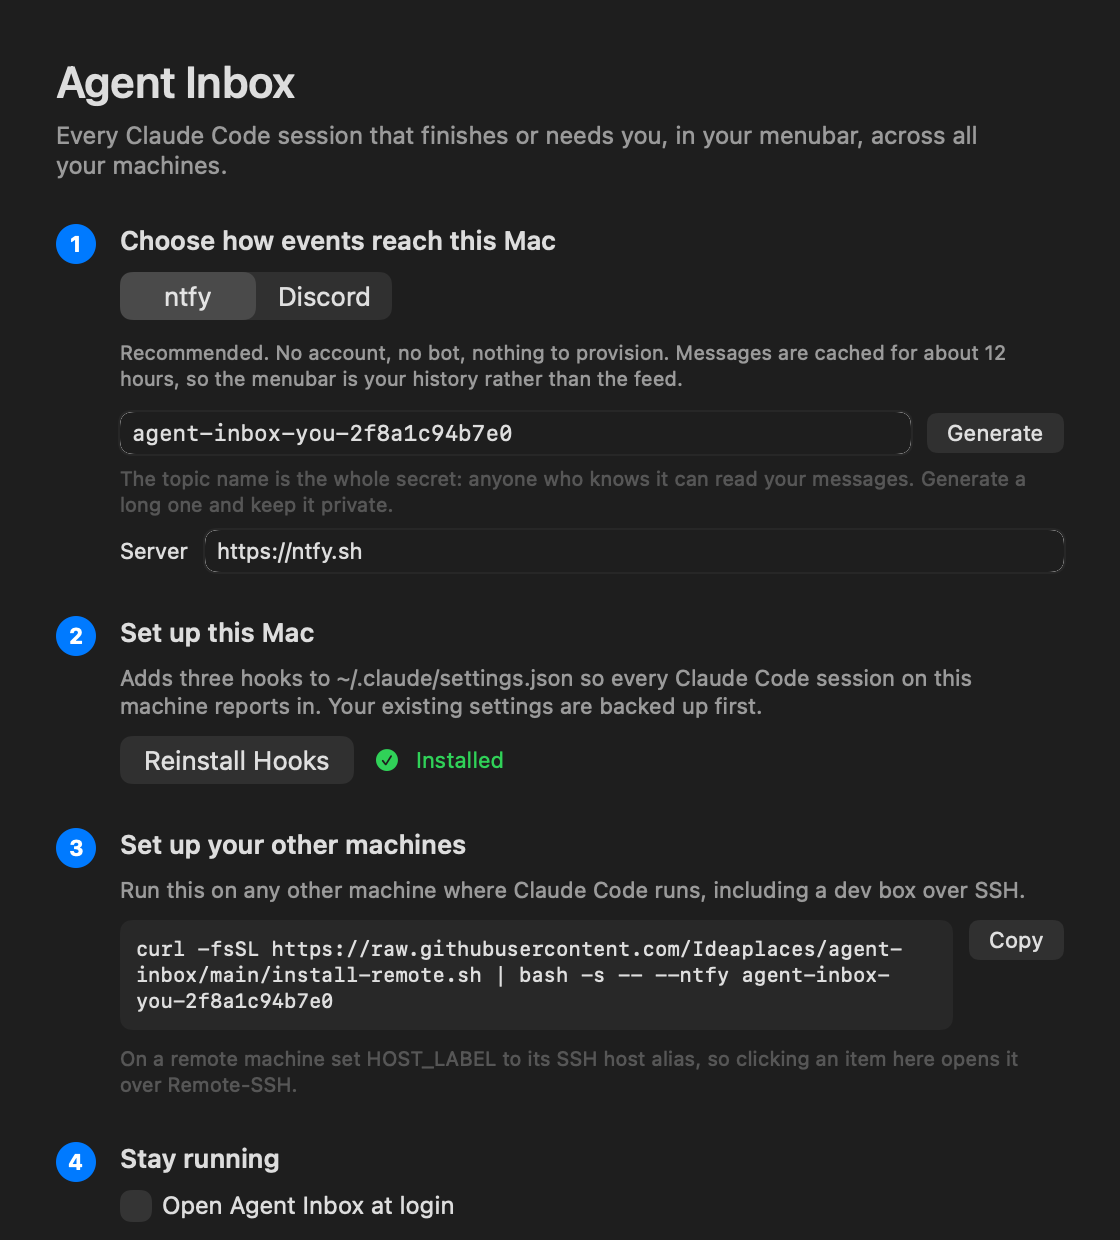
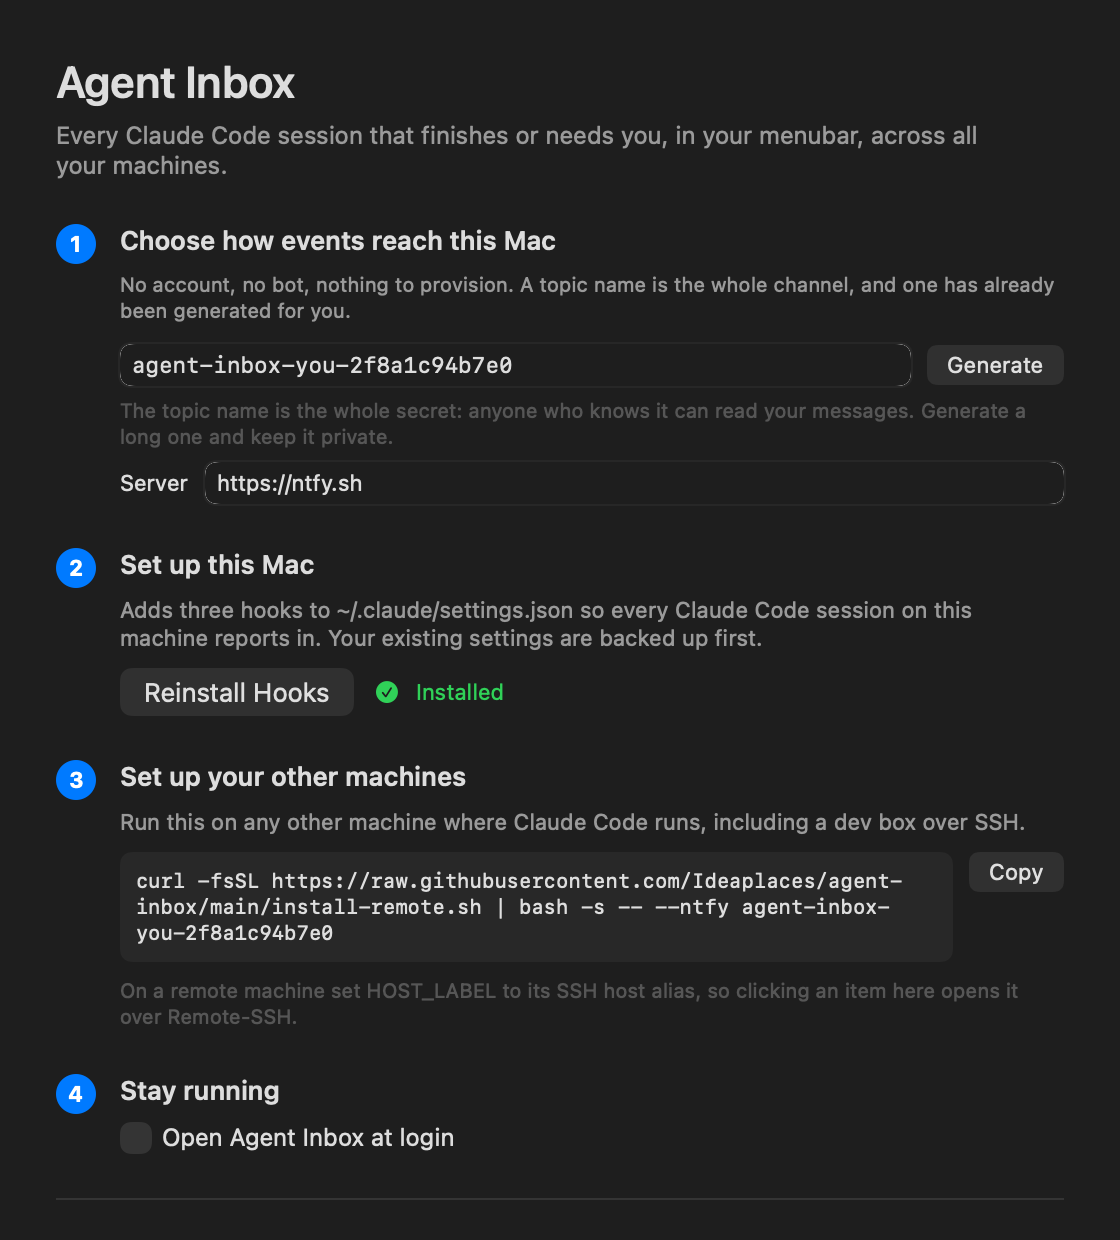
Stop Sparkle blocking the test run, and regenerate the screenshots
The images in the previous commit predated the Discord removal, so the
setup shot still showed a transport picker that no longer exists.

They were stale because the regeneration hung rather than failed. Sparkle
was putting up a modal alert and waiting for a click, which blocks the
run loop the capture depends on. The guard added for this used
XCTestConfigurationFilePath, which Xcode sets and SwiftPM's runner does
not, so  walked straight past it. Detect the XCTest runtime
instead.

The first run of this suite only finished because somebody clicked the
dialog. The suite now takes eight seconds rather than a hundred and
fourteen, and the difference was never the rendering.

Changed region(s): [[0.0312, 0.2145, 0.9375, 0.9806]]

diff --git a/mac/Sources/AgentInbox/Services/Updater.swift b/mac/Sources/AgentInbox/Services/Updater.swift
@@ -1,5 +1,6 @@
 import Foundation
 import Observation
+import ObjectiveC
 import Sparkle
 
 /// In-app updates.
@@ -27,7 +28,13 @@ final class Updater {
         // host it fails and puts "Unable to Check For Updates ... verify you
         // have the latest version of xctest" on screen, which is both alarming
         // and unrelated to whatever is being tested.
-        let underTest = ProcessInfo.processInfo.environment["XCTestConfigurationFilePath"] != nil
+        // Detected by the presence of the XCTest runtime, not by
+        // XCTestConfigurationFilePath: that variable is set by Xcode and not by
+        // SwiftPM's runner, so `swift test` slipped straight past it. Sparkle
+        // then started, failed, and put up a modal alert, which blocks the run
+        // loop until somebody clicks it. A test suite that hangs until a human
+        // notices is worse than one that fails.
+        let underTest = NSClassFromString("XCTestCase") != nil
         controller = SPUStandardUpdaterController(
             startingUpdater: !underTest, updaterDelegate: nil, userDriverDelegate: nil)
         observeCanCheck()
